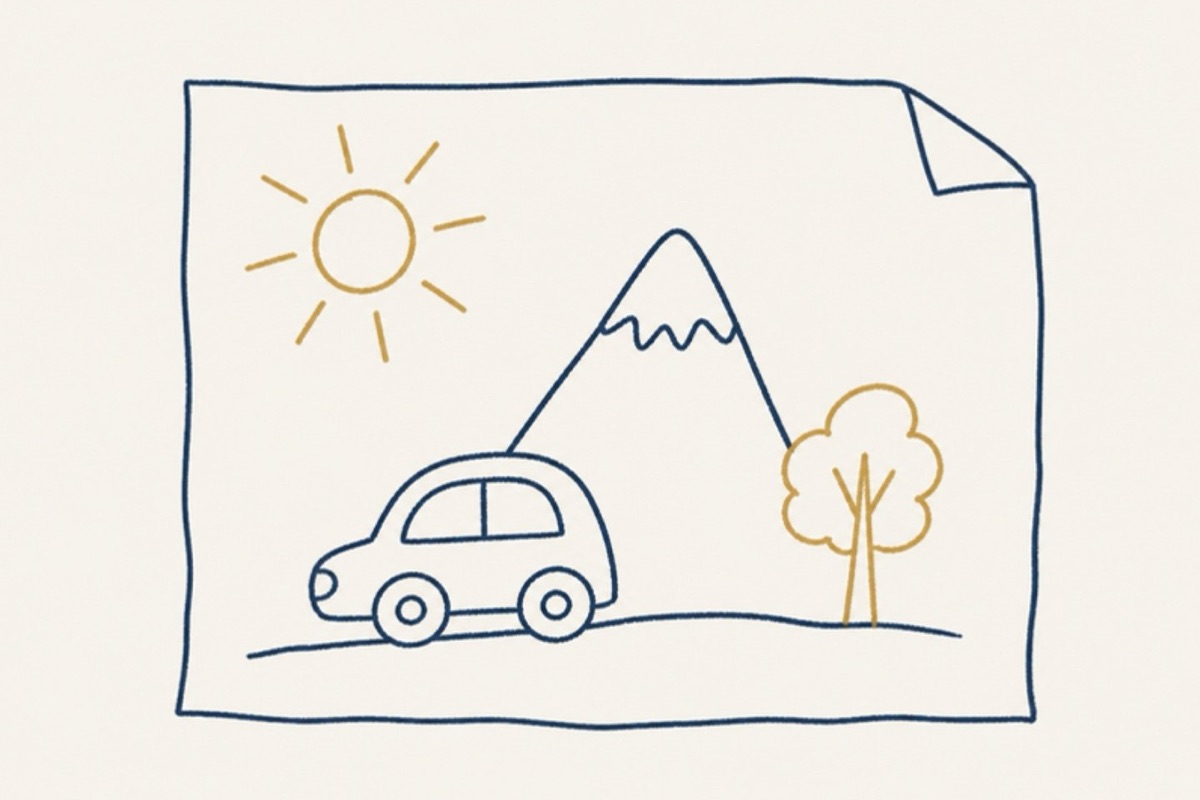
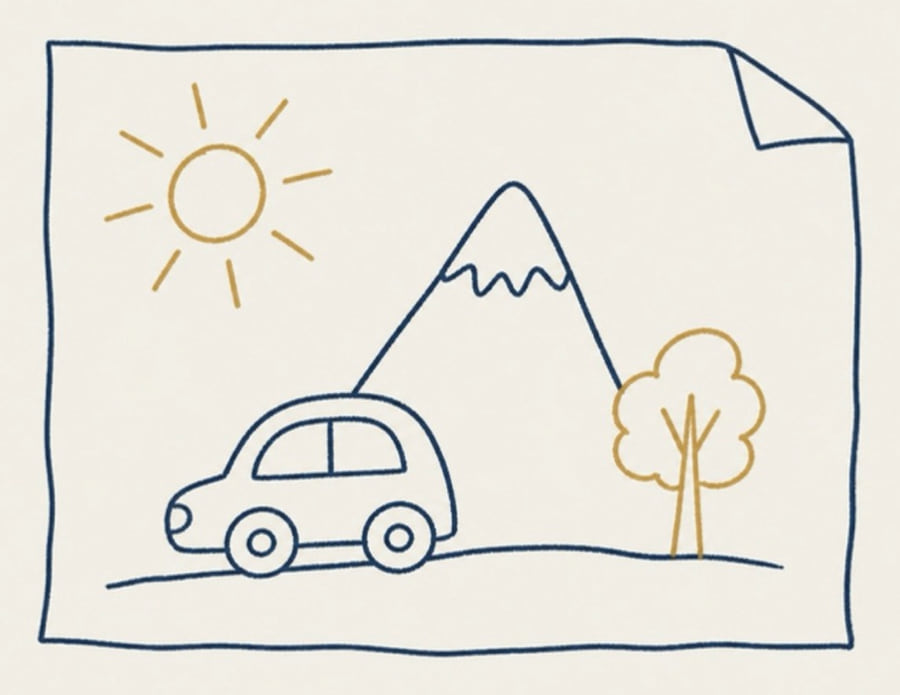
Desenho para Deus: ilustração ao lado da abertura e leitura que continua na página

Changed region(s): [[0.0311, 0.0302, 0.9644, 0.9669], [0.8711, 0.1209, 0.9022, 0.1511], [0.3422, 0.1813, 0.3733, 0.2115]]

diff --git a/index.html b/index.html
@@ -189,24 +189,27 @@ h2::after{content:"";display:block;width:40px;height:2px;background:var(--dourad
 .desenho{margin-top:60px}
 .etq-ouro{color:var(--dourado)}
 .desenho h2{margin-top:14px}
-.desenho .lead{margin-top:18px;max-width:34rem;font-size:17px}
-.desenho .ilustra{margin:26px 0 0}
-.meditacao{margin-top:22px;border-top:1px solid var(--linha);border-bottom:1px solid var(--linha)}
-.meditacao summary{cursor:pointer;padding:16px 0;font-weight:600;list-style:none;display:flex;justify-content:space-between;align-items:center;gap:12px}
-.meditacao summary::-webkit-details-marker{display:none}
-.meditacao summary::after{content:"+";font-weight:300;font-size:24px;line-height:1}
-.meditacao[open] summary::after{content:"–"}
-.med-corpo{padding:6px 0 30px;display:flex;flex-direction:column;gap:18px;max-width:36rem;font-size:15.5px;line-height:1.75}
+.med-abre{margin-top:26px;display:grid;gap:22px;align-items:center}
+.med-abre p{font-size:16px;line-height:1.75}
+.folha-desenho{margin:0}
+.folha-desenho img{display:block;width:100%;height:auto}
+@media (min-width:560px){.med-abre{grid-template-columns:minmax(0,5fr) minmax(0,6fr);gap:30px}}
+.med-btn{margin-top:20px;font-size:14px}
+.med-btn::after{content:" ↓";text-decoration:none;display:inline-block;margin-left:6px;color:var(--dourado)}
+#medFechar{align-self:flex-start;margin-top:8px}
+#medFechar::after{content:" ↑"}
+.med-corpo{margin-top:22px;padding:24px 0 8px;border-top:1px solid var(--linha);display:flex;flex-direction:column;gap:18px;max-width:36rem;font-size:15.5px;line-height:1.75}
 .oracao{margin:6px 0;padding:24px 4px;border-top:1px solid var(--dourado);border-bottom:1px solid var(--dourado);font-family:var(--f-serif);font-style:italic;font-weight:500;font-size:21px;line-height:1.5;color:var(--azul)}
-.passos{list-style:none;margin:2px 0;padding:0;border-top:1px solid var(--linha)}
+.passos{list-style:none;margin:2px 0;padding:0;border-top:1px solid var(--linha);display:grid}
+@media (min-width:560px){.passos{grid-template-columns:1fr 1fr;column-gap:28px}}
 .passos li{display:grid;grid-template-columns:38px minmax(0,1fr);column-gap:0;row-gap:2px;padding:14px 0;border-bottom:1px solid var(--linha);line-height:1.5}
 .passos .num{grid-row:span 2;padding-top:2px}
 .passos strong{font-weight:600;font-size:16px}
 .passos span:last-child{grid-column:2;color:var(--cinza);font-size:14px}
 .pergunta{margin-top:10px;font-family:var(--f-serif);font-style:italic;font-weight:500;font-size:29px;line-height:1.22;color:var(--bordo)}
 .pergunta::before{content:"";display:block;width:14px;height:14px;background:var(--bordo);margin-bottom:18px}
-.sobre{margin-top:44px;border-top:1px solid var(--linha);border-bottom:1px solid var(--linha)}
-.sobre summary{cursor:pointer;padding:16px 0;font-weight:500;list-style:none;display:flex;justify-content:space-between;align-items:center;gap:12px}
+.sobre{margin-top:64px;border-top:1px solid var(--linha);border-bottom:1px solid var(--linha)}
+.sobre summary{cursor:pointer;padding:16px 0;font-size:14px;font-weight:500;list-style:none;display:flex;justify-content:space-between;align-items:center;gap:12px}
 .sobre summary::-webkit-details-marker{display:none}
 .sobre summary::after{content:"+";font-weight:300;font-size:24px;line-height:1}
 .sobre[open] summary::after{content:"–"}
@@ -442,27 +445,28 @@ textarea.pag-texto:focus{border:0}
       <section class="desenho" aria-labelledby="desenhoH">
         <p class="etq etq-ouro">Antes de dormir</p>
         <h2 id="desenhoH">O desenho para Deus</h2>
-        <figure class="ilustra"><img src="img/desenho.jpg" alt="Desenho de criança numa folha: sol, montanha, carro e árvore." width="1200" height="800" loading="lazy"></figure>
-        <details class="meditacao" id="meditacao">
-          <summary>Ler a meditação</summary>
-          <div class="med-corpo">
-            <p>Pense numa menina de sete anos. Na escola, ela faz um desenho e leva para a mãe: “Olha, mamãe, o que eu fiz para você.” Tecnicamente, o desenho é horroroso. Mas a mãe enxerga o carinho e o esforço que estão ali. E sabe reconhecer, também, o dia em que a filha não caprichou.</p>
-            <p>Você é essa criança, e Deus é o seu Pai. Cada ato do seu dia é um traço do desenho: o carro, a árvore, a montanha, o sol. A oração, o estudo, o trabalho, a dieta e o treino que você marcou aqui também são traços. Pode sair um sol torto, mas feito com carinho, o melhor que você pôde.</p>
-            <p>À noite, na hora da oração, pegue o desenho de hoje:</p>
-            <ol class="passos">
-              <li><span class="num" aria-hidden="true">01</span><strong>Olhe</strong><span>Repasse o dia com honestidade, traço por traço.</span></li>
-              <li><span class="num" aria-hidden="true">02</span><strong>Agradeça</strong><span>Pelo sol e pela montanha que saíram com carinho.</span></li>
-              <li><span class="num" aria-hidden="true">03</span><strong>Peça desculpas</strong><span>Pela árvore que você rabiscou com pressa, sem cuidado.</span></li>
-              <li><span class="num" aria-hidden="true">04</span><strong>Peça ajuda</strong><span>Para fazer um desenho melhor amanhã.</span></li>
-            </ol>
-            <p>Com as suas palavras, ou assim:</p>
-            <blockquote class="oracao">“Pai, eu fiz este desenho para o Senhor. Esta árvore aqui eu rabisquei de qualquer jeito, porque nessa hora eu não estava gostando tanto do Senhor. Mas o sol e a montanha eu fiz com muito carinho. Eu gosto muito do Senhor, mas às vezes me esqueço disso. Me desculpa. Eu tenho preguiça, eu reclamo, eu deixo para depois, eu fico no celular. Eu quero parar de ser assim. Me ajuda a fazer um desenho melhor amanhã, porque sem o Senhor eu não consigo.”</blockquote>
-            <p>Faça isso todas as noites e você vai ver a sua vida melhorar. Vai ver a sua vida ganhar sentido.</p>
-            <p class="pergunta">Qual é o desenho que eu estou entregando para Deus no final do meu dia?</p>
-            <p>Ponha isso na cabeça e você perceberá que os outros problemas ficarão pequenos. Afinal, o que mais importa nesta vida é o que o seu Pai (Deus) acha de você, já que Ele é o único que assiste você o tempo inteiro, que sabe e conhece cada um dos seus sentimentos e cada movimento da sua alma.</p>
-            <p>Repetindo, não se esqueça: não importa o que o outro acha de você. A pergunta interior da sua alma deve ser: “O que Deus acha de mim? O que Ele pensa de mim?”</p>
-          </div>
-        </details>
+        <div class="med-abre">
+          <figure class="folha-desenho"><img src="img/desenho.jpg" alt="Desenho de criança numa folha: sol, montanha, carro e árvore." width="900" height="695" loading="lazy"></figure>
+          <p>Pense numa menina de sete anos. Na escola, ela faz um desenho e leva para a mãe: “Olha, mamãe, o que eu fiz para você.” Tecnicamente, o desenho é horroroso. Mas a mãe enxerga o carinho e o esforço que estão ali. E sabe reconhecer, também, o dia em que a filha não caprichou.</p>
+        </div>
+        <button type="button" class="link med-btn" id="medAbrir" aria-expanded="false" aria-controls="meditacao">Continuar a leitura</button>
+        <div class="med-corpo" id="meditacao" hidden>
+          <p>Você é essa criança, e Deus é o seu Pai. Cada ato do seu dia é um traço do desenho: o carro, a árvore, a montanha, o sol. A oração, o estudo, o trabalho, a dieta e o treino que você marcou aqui também são traços. Pode sair um sol torto, mas feito com carinho, o melhor que você pôde.</p>
+          <p>À noite, na hora da oração, pegue o desenho de hoje:</p>
+          <ol class="passos">
+            <li><span class="num" aria-hidden="true">01</span><strong>Olhe</strong><span>Repasse o dia com honestidade, traço por traço.</span></li>
+            <li><span class="num" aria-hidden="true">02</span><strong>Agradeça</strong><span>Pelo sol e pela montanha que saíram com carinho.</span></li>
+            <li><span class="num" aria-hidden="true">03</span><strong>Peça desculpas</strong><span>Pela árvore que você rabiscou com pressa, sem cuidado.</span></li>
+            <li><span class="num" aria-hidden="true">04</span><strong>Peça ajuda</strong><span>Para fazer um desenho melhor amanhã.</span></li>
+          </ol>
+          <p>Com as suas palavras, ou assim:</p>
+          <blockquote class="oracao">“Pai, eu fiz este desenho para o Senhor. Esta árvore aqui eu rabisquei de qualquer jeito, porque nessa hora eu não estava gostando tanto do Senhor. Mas o sol e a montanha eu fiz com muito carinho. Eu gosto muito do Senhor, mas às vezes me esqueço disso. Me desculpa. Eu tenho preguiça, eu reclamo, eu deixo para depois, eu fico no celular. Eu quero parar de ser assim. Me ajuda a fazer um desenho melhor amanhã, porque sem o Senhor eu não consigo.”</blockquote>
+          <p>Faça isso todas as noites e você vai ver a sua vida melhorar. Vai ver a sua vida ganhar sentido.</p>
+          <p class="pergunta">Qual é o desenho que eu estou entregando para Deus no final do meu dia?</p>
+          <p>Ponha isso na cabeça e você perceberá que os outros problemas ficarão pequenos. Afinal, o que mais importa nesta vida é o que o seu Pai (Deus) acha de você, já que Ele é o único que assiste você o tempo inteiro, que sabe e conhece cada um dos seus sentimentos e cada movimento da sua alma.</p>
+          <p>Repetindo, não se esqueça: não importa o que o outro acha de você. A pergunta interior da sua alma deve ser: “O que Deus acha de mim? O que Ele pensa de mim?”</p>
+          <button type="button" class="link med-btn" id="medFechar">Recolher a meditação</button>
+        </div>
       </section>
 
       <details class="sobre" id="sobre">
@@ -1198,6 +1202,12 @@ function bind(){
   $('#formCadastro').addEventListener('submit',fazerCadastro);
   $('#irCadastro').addEventListener('click',()=>{erroLogin('l','');mostrarLogin('cadastro');const n=$('#lNome').value.trim();if(n&&!$('#cNome').value)$('#cNome').value=n;$('#cNome').focus()});
   $('#irEntrar').addEventListener('click',()=>{erroLogin('c','');mostrarLogin();$('#lNome').focus()});
+  const abrirMeditacao=aberta=>{
+    $('#meditacao').hidden=!aberta;$('#medAbrir').hidden=aberta;$('#medAbrir').setAttribute('aria-expanded',String(aberta));
+    if(!aberta){$('#desenhoH').scrollIntoView({block:'start',behavior:matchMedia('(prefers-reduced-motion: reduce)').matches?'auto':'smooth'});$('#medAbrir').focus({preventScroll:true})}
+  };
+  $('#medAbrir').addEventListener('click',()=>abrirMeditacao(true));
+  $('#medFechar').addEventListener('click',()=>abrirMeditacao(false));
   $('#sair').addEventListener('click',sair);
   $('#sair2').addEventListener('click',sair);
   $('#abrirDesafio').addEventListener('click',()=>{setTab('conta');window.scrollTo({top:0,behavior:reduceMotion?'auto':'smooth'})});
